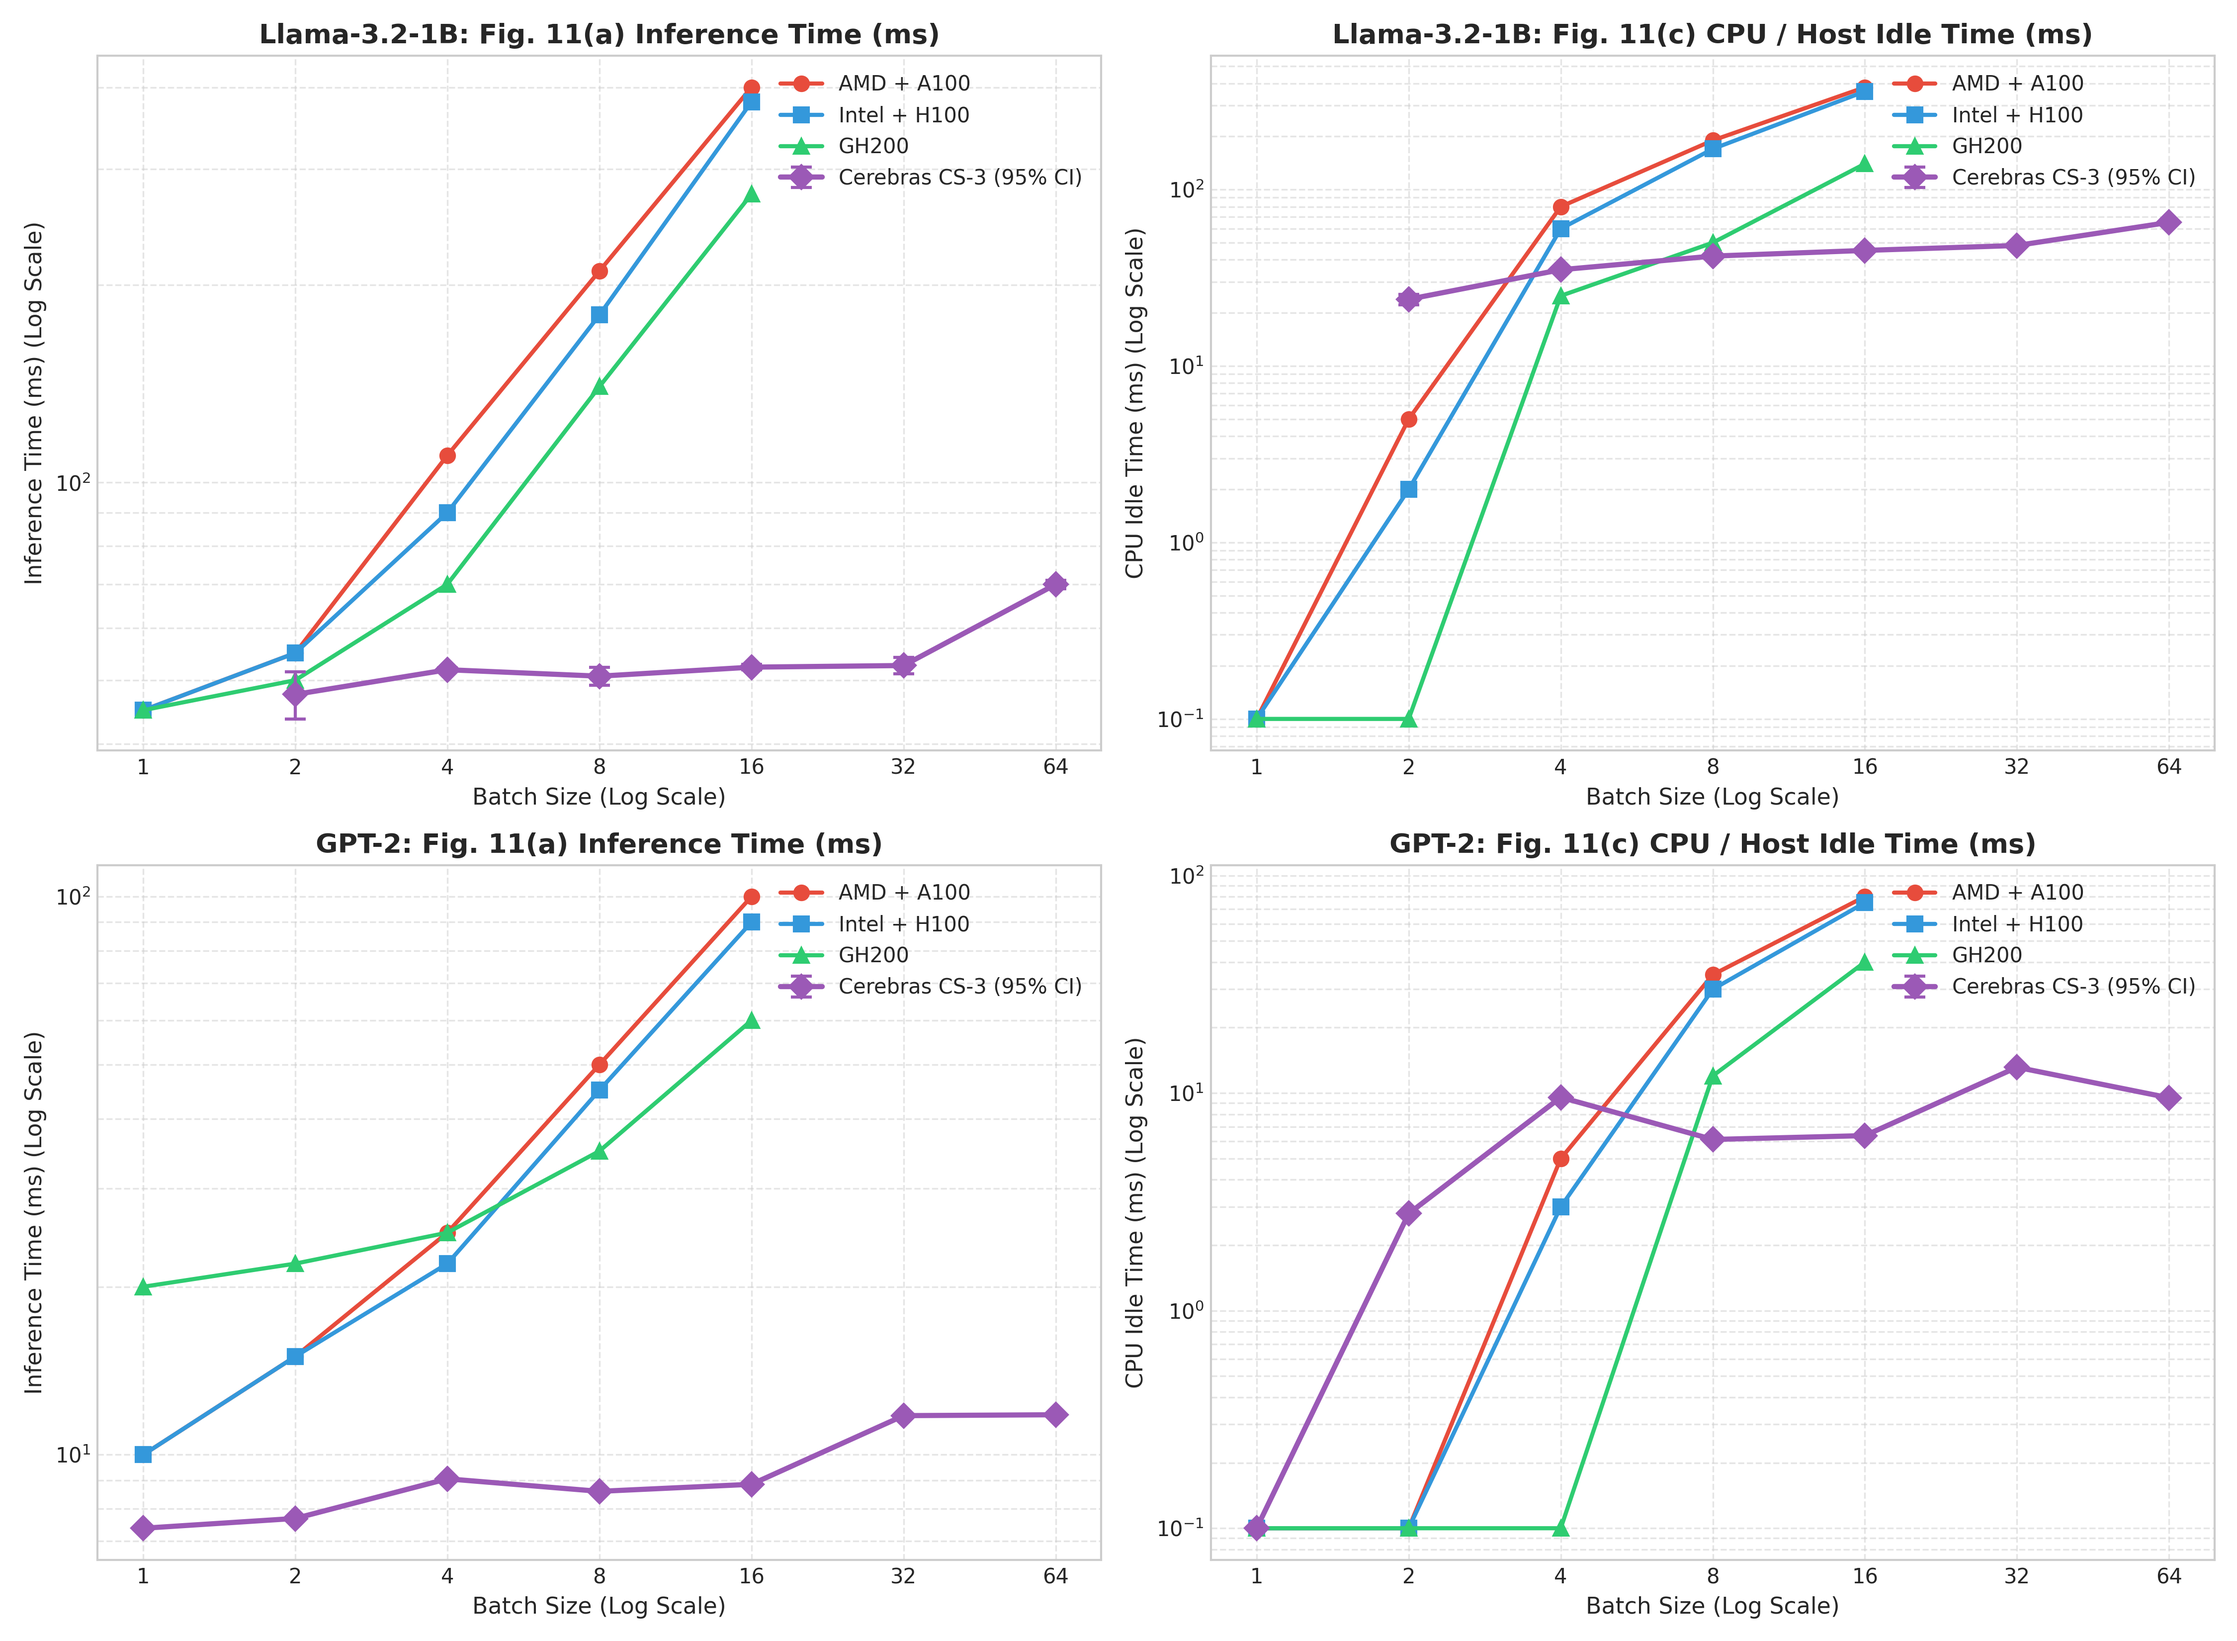
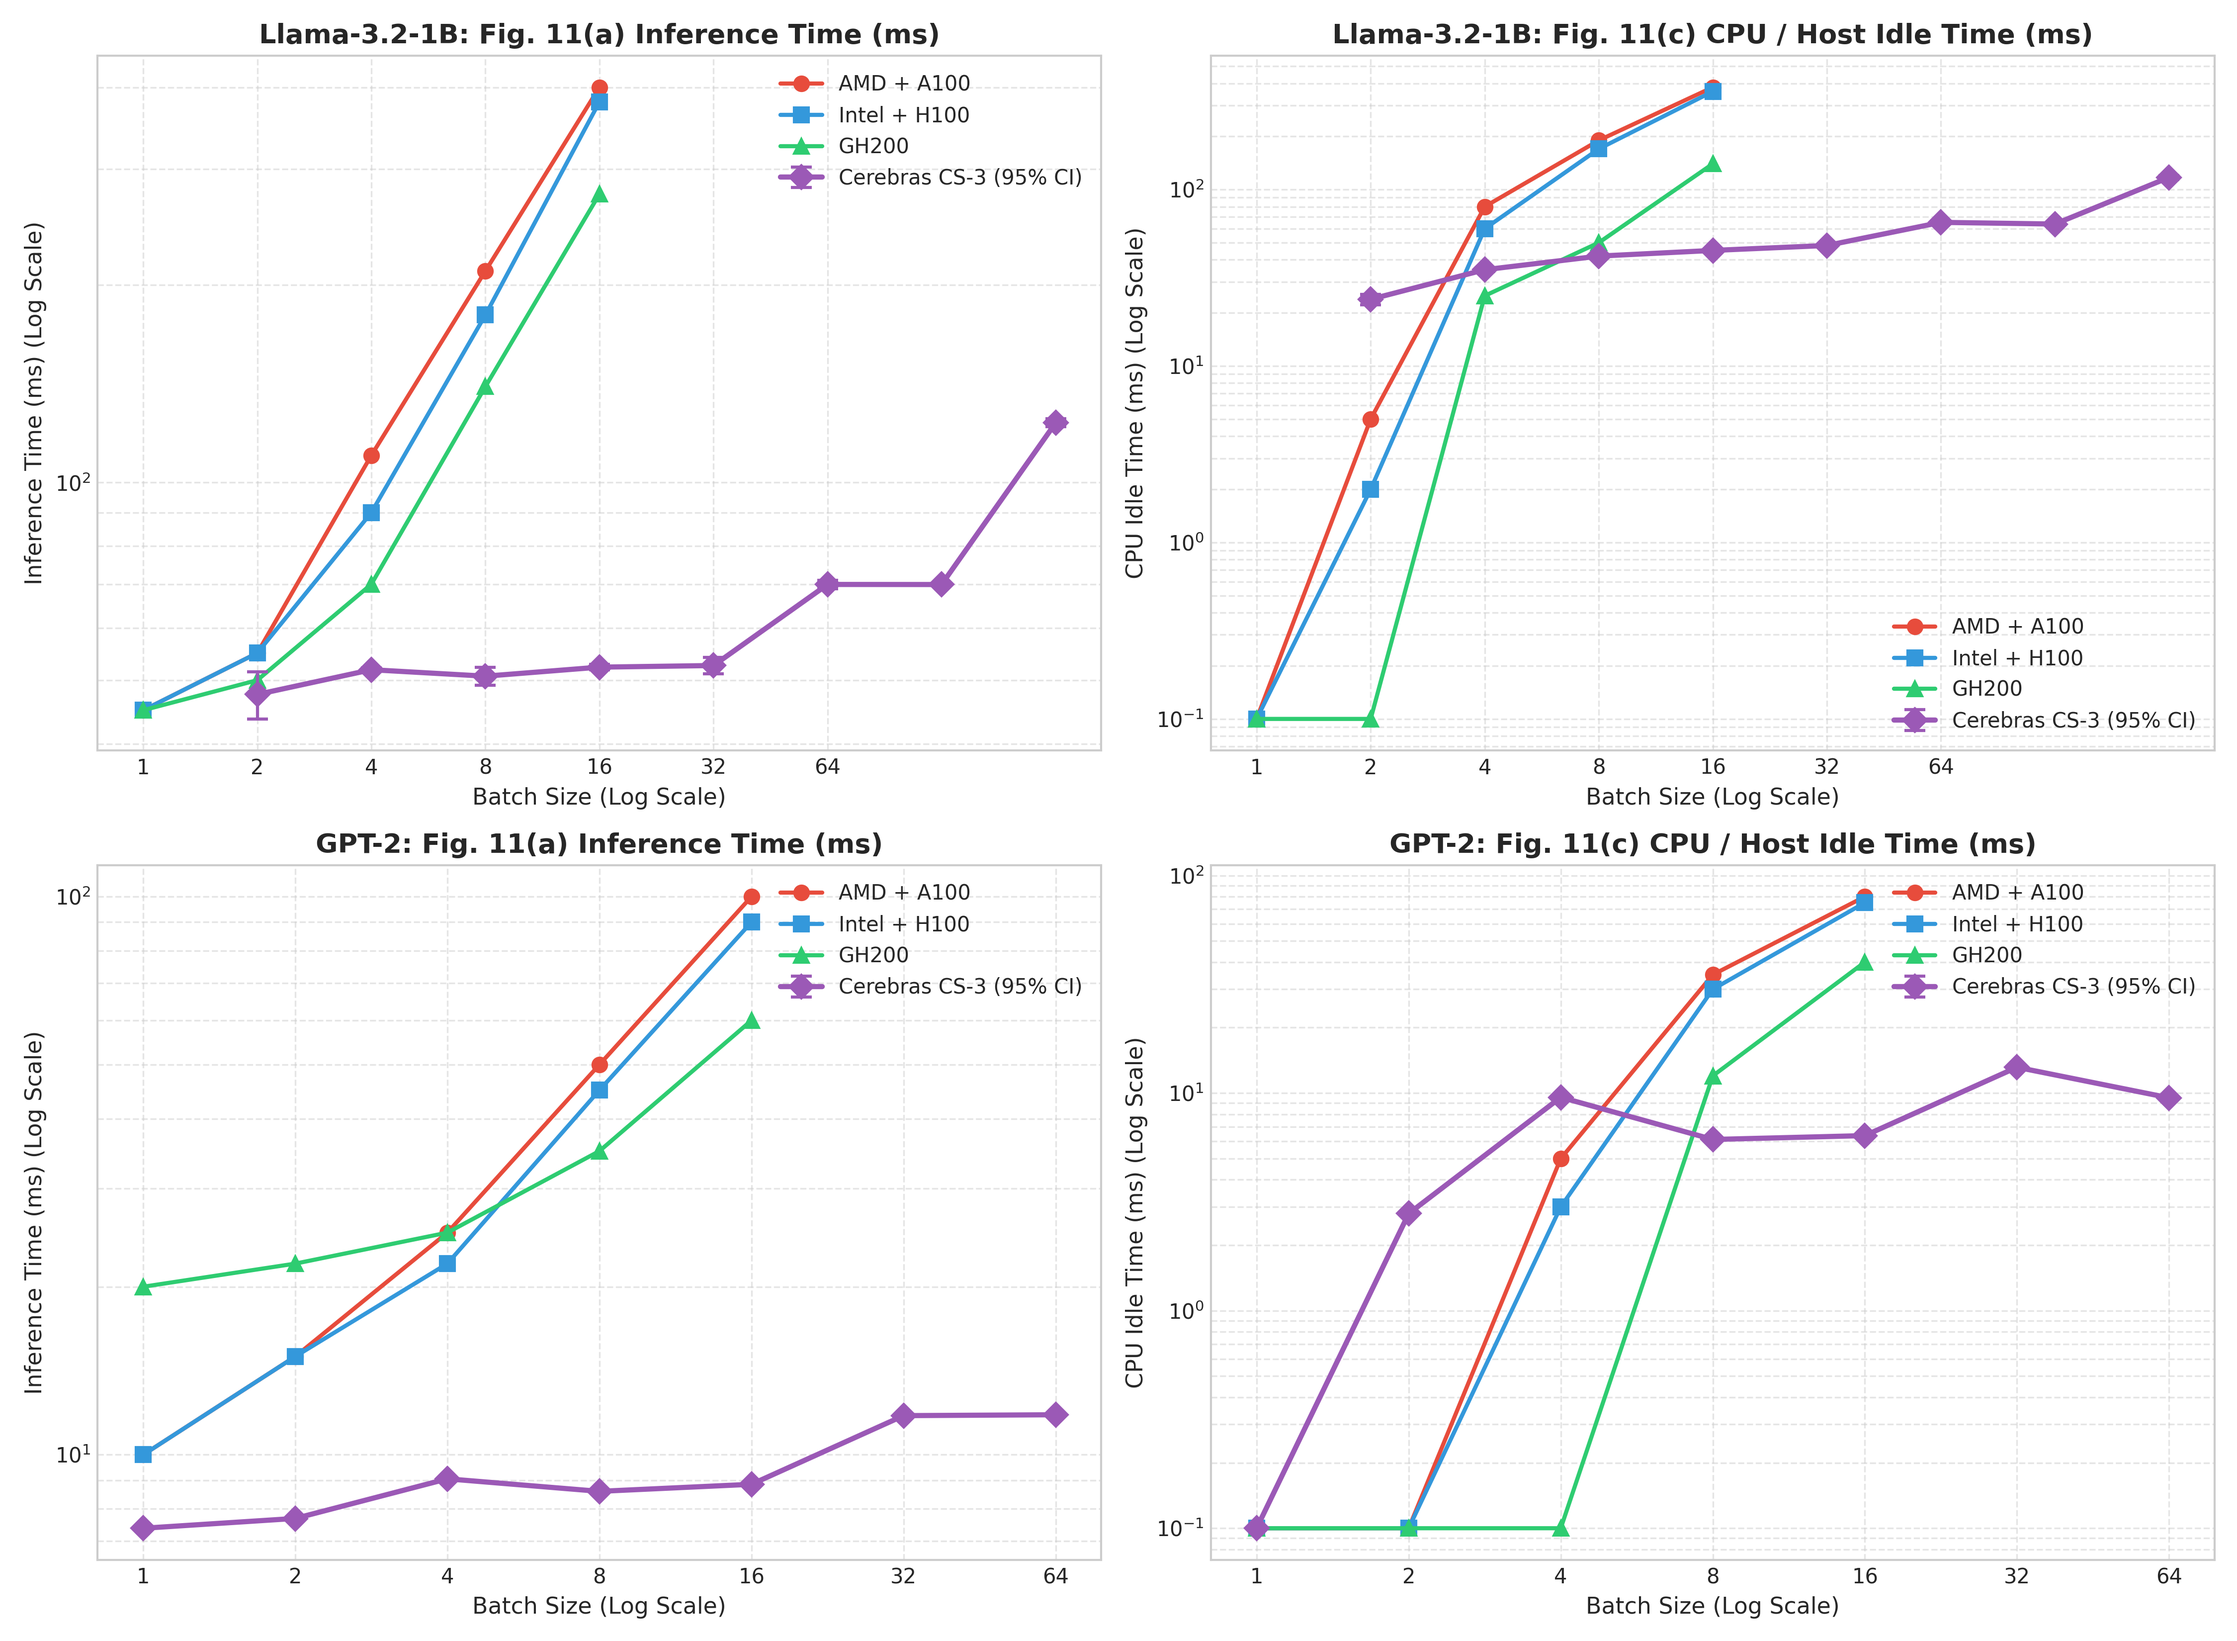
include bs 128 and 256 results

diff --git a/plot_fig11_parity.py b/plot_fig11_parity.py
@@ -19,8 +19,8 @@ RESULTS_DIR.mkdir(parents=True, exist_ok=True)
 
 # GPU baseline batch sizes (from paper Figure 11)
 GPU_BS = [1, 2, 4, 8, 16]
-# Full Cerebras batch sizes up to BS=64
-CEREBRAS_BS = [1, 2, 4, 8, 16, 32, 64]
+# Full Cerebras batch sizes up to BS=256
+CEREBRAS_BS = [1, 2, 4, 8, 16, 32, 64, 128, 256]
 
 # Digitized baseline values from Figure 11 of SODA paper (arXiv:2504.11750v1)
 # --- Llama-3 (1.2B) ---

diff --git a/analyze_exp1_sweep.py b/analyze_exp1_sweep.py
@@ -12,7 +12,7 @@ OUTPUT_BASE_DIR = Path("/cra-1684/igormolybog/SODA---System-Offload-Dynamics-Ana
 REPORT_PATH = OUTPUT_BASE_DIR / "exp1_inflection_report.md"
 
 MODELS = ["llama3", "gpt2"]
-BATCH_SIZES = [1, 2, 4, 8, 16, 32, 64]
+BATCH_SIZES = [1, 2, 4, 8, 16, 32, 64, 128, 256, 512, 1024]
 
 import math
 import statistics

diff --git a/experiments/fig11/results/fig11_4system_comparison_report.md b/experiments/fig11/results/fig11_4system_comparison_report.md
@@ -15,20 +15,20 @@ This report extracts the data points from **Figure 11(a) Inference Time** and **
 ### A. `Llama-3.2-1B` (1.2B Model)
 
 #### Figure 11(a): Inference Time (ms)
-| System Architecture | BS=1 | BS=2 | BS=4 | BS=8 | BS=16 | BS=32 | BS=64 |
-| :--- | :---: | :---: | :---: | :---: | :---: | :---: | :---: |
-| **AMD EPYC + A100** (Loosely-Coupled) | $45.0\text{ ms}$ | $55.0\text{ ms}$ | $110.0\text{ ms}$ | $210.0\text{ ms}$ | $400.0\text{ ms}$ | N/A | N/A |
-| **Intel Xeon + H100** (Loosely-Coupled) | $45.0\text{ ms}$ | $55.0\text{ ms}$ | $90.0\text{ ms}$ | $180.0\text{ ms}$ | $380.0\text{ ms}$ | N/A | N/A |
-| **NVIDIA GH200** (Closely-Coupled) | $45.0\text{ ms}$ | $50.0\text{ ms}$ | $70.0\text{ ms}$ | $140.0\text{ ms}$ | $275.0\text{ ms}$ | N/A | N/A |
-| **Cerebras CS-3** (Wafer-Scale) | **$49.62 \pm 2.89\text{ ms}$** | **$47.56 \pm 3.92\text{ ms}$** | **$51.87 \pm 0.33\text{ ms}$** | **$50.71 \pm 1.58\text{ ms}$** | **$52.34 \pm 0.49\text{ ms}$** | **$52.64 \pm 1.50\text{ ms}$** | **$69.95 \pm 1.05\text{ ms}$** |
+| System Architecture | BS=1 | BS=2 | BS=4 | BS=8 | BS=16 | BS=32 | BS=64 | BS=128 | BS=256 |
+| :--- | :---: | :---: | :---: | :---: | :---: | :---: | :---: | :---: | :---: |
+| **AMD EPYC + A100** (Loosely-Coupled) | $45.0\text{ ms}$ | $55.0\text{ ms}$ | $110.0\text{ ms}$ | $210.0\text{ ms}$ | $400.0\text{ ms}$ | N/A | N/A | N/A | N/A |
+| **Intel Xeon + H100** (Loosely-Coupled) | $45.0\text{ ms}$ | $55.0\text{ ms}$ | $90.0\text{ ms}$ | $180.0\text{ ms}$ | $380.0\text{ ms}$ | N/A | N/A | N/A | N/A |
+| **NVIDIA GH200** (Closely-Coupled) | $45.0\text{ ms}$ | $50.0\text{ ms}$ | $70.0\text{ ms}$ | $140.0\text{ ms}$ | $275.0\text{ ms}$ | N/A | N/A | N/A | N/A |
+| **Cerebras CS-3** (Wafer-Scale) | **$49.62 \pm 2.89\text{ ms}$** | **$47.56 \pm 3.92\text{ ms}$** | **$51.87 \pm 0.33\text{ ms}$** | **$50.71 \pm 1.58\text{ ms}$** | **$52.34 \pm 0.49\text{ ms}$** | **$52.64 \pm 1.50\text{ ms}$** | **$69.95 \pm 1.05\text{ ms}$** | **$69.93 \pm 1.15\text{ ms}$** | **$123.28 \pm 2.05\text{ ms}$** |
 
 #### Figure 11(c): CPU / Host Idle Time (ms)
-| System Architecture | BS=1 | BS=2 | BS=4 | BS=8 | BS=16 | BS=32 | BS=64 |
-| :--- | :---: | :---: | :---: | :---: | :---: | :---: | :---: |
-| **AMD EPYC + A100** | $0.0\text{ ms}$ | $5.0\text{ ms}$ | $80.0\text{ ms}$ | $190.0\text{ ms}$ | $380.0\text{ ms}$ | N/A | N/A |
-| **Intel Xeon + H100** | $0.0\text{ ms}$ | $2.0\text{ ms}$ | $60.0\text{ ms}$ | $170.0\text{ ms}$ | $360.0\text{ ms}$ | N/A | N/A |
-| **NVIDIA GH200** | $0.0\text{ ms}$ | $0.0\text{ ms}$ | $25.0\text{ ms}$ | $50.0\text{ ms}$ | $140.0\text{ ms}$ | N/A | N/A |
-| **Cerebras CS-3** | **$1.27 \pm 1.71\text{ ms}$** | **$23.90 \pm 1.61\text{ ms}$** | **$35.14 \pm 0.78\text{ ms}$** | **$41.98 \pm 0.62\text{ ms}$** | **$45.20 \pm 0.83\text{ ms}$** | **$48.21 \pm 0.74\text{ ms}$** | **$65.19 \pm 0.53\text{ ms}$** |
+| System Architecture | BS=1 | BS=2 | BS=4 | BS=8 | BS=16 | BS=32 | BS=64 | BS=128 | BS=256 |
+| :--- | :---: | :---: | :---: | :---: | :---: | :---: | :---: | :---: | :---: |
+| **AMD EPYC + A100** | $0.0\text{ ms}$ | $5.0\text{ ms}$ | $80.0\text{ ms}$ | $190.0\text{ ms}$ | $380.0\text{ ms}$ | N/A | N/A | N/A | N/A |
+| **Intel Xeon + H100** | $0.0\text{ ms}$ | $2.0\text{ ms}$ | $60.0\text{ ms}$ | $170.0\text{ ms}$ | $360.0\text{ ms}$ | N/A | N/A | N/A | N/A |
+| **NVIDIA GH200** | $0.0\text{ ms}$ | $0.0\text{ ms}$ | $25.0\text{ ms}$ | $50.0\text{ ms}$ | $140.0\text{ ms}$ | N/A | N/A | N/A | N/A |
+| **Cerebras CS-3** | **$1.27 \pm 1.71\text{ ms}$** | **$23.90 \pm 1.61\text{ ms}$** | **$35.14 \pm 0.78\text{ ms}$** | **$41.98 \pm 0.62\text{ ms}$** | **$45.20 \pm 0.83\text{ ms}$** | **$48.21 \pm 0.74\text{ ms}$** | **$65.19 \pm 0.53\text{ ms}$** | **$63.79 \pm 0.77\text{ ms}$** | **$117.24 \pm 1.41\text{ ms}$** |
 
 ---
 
